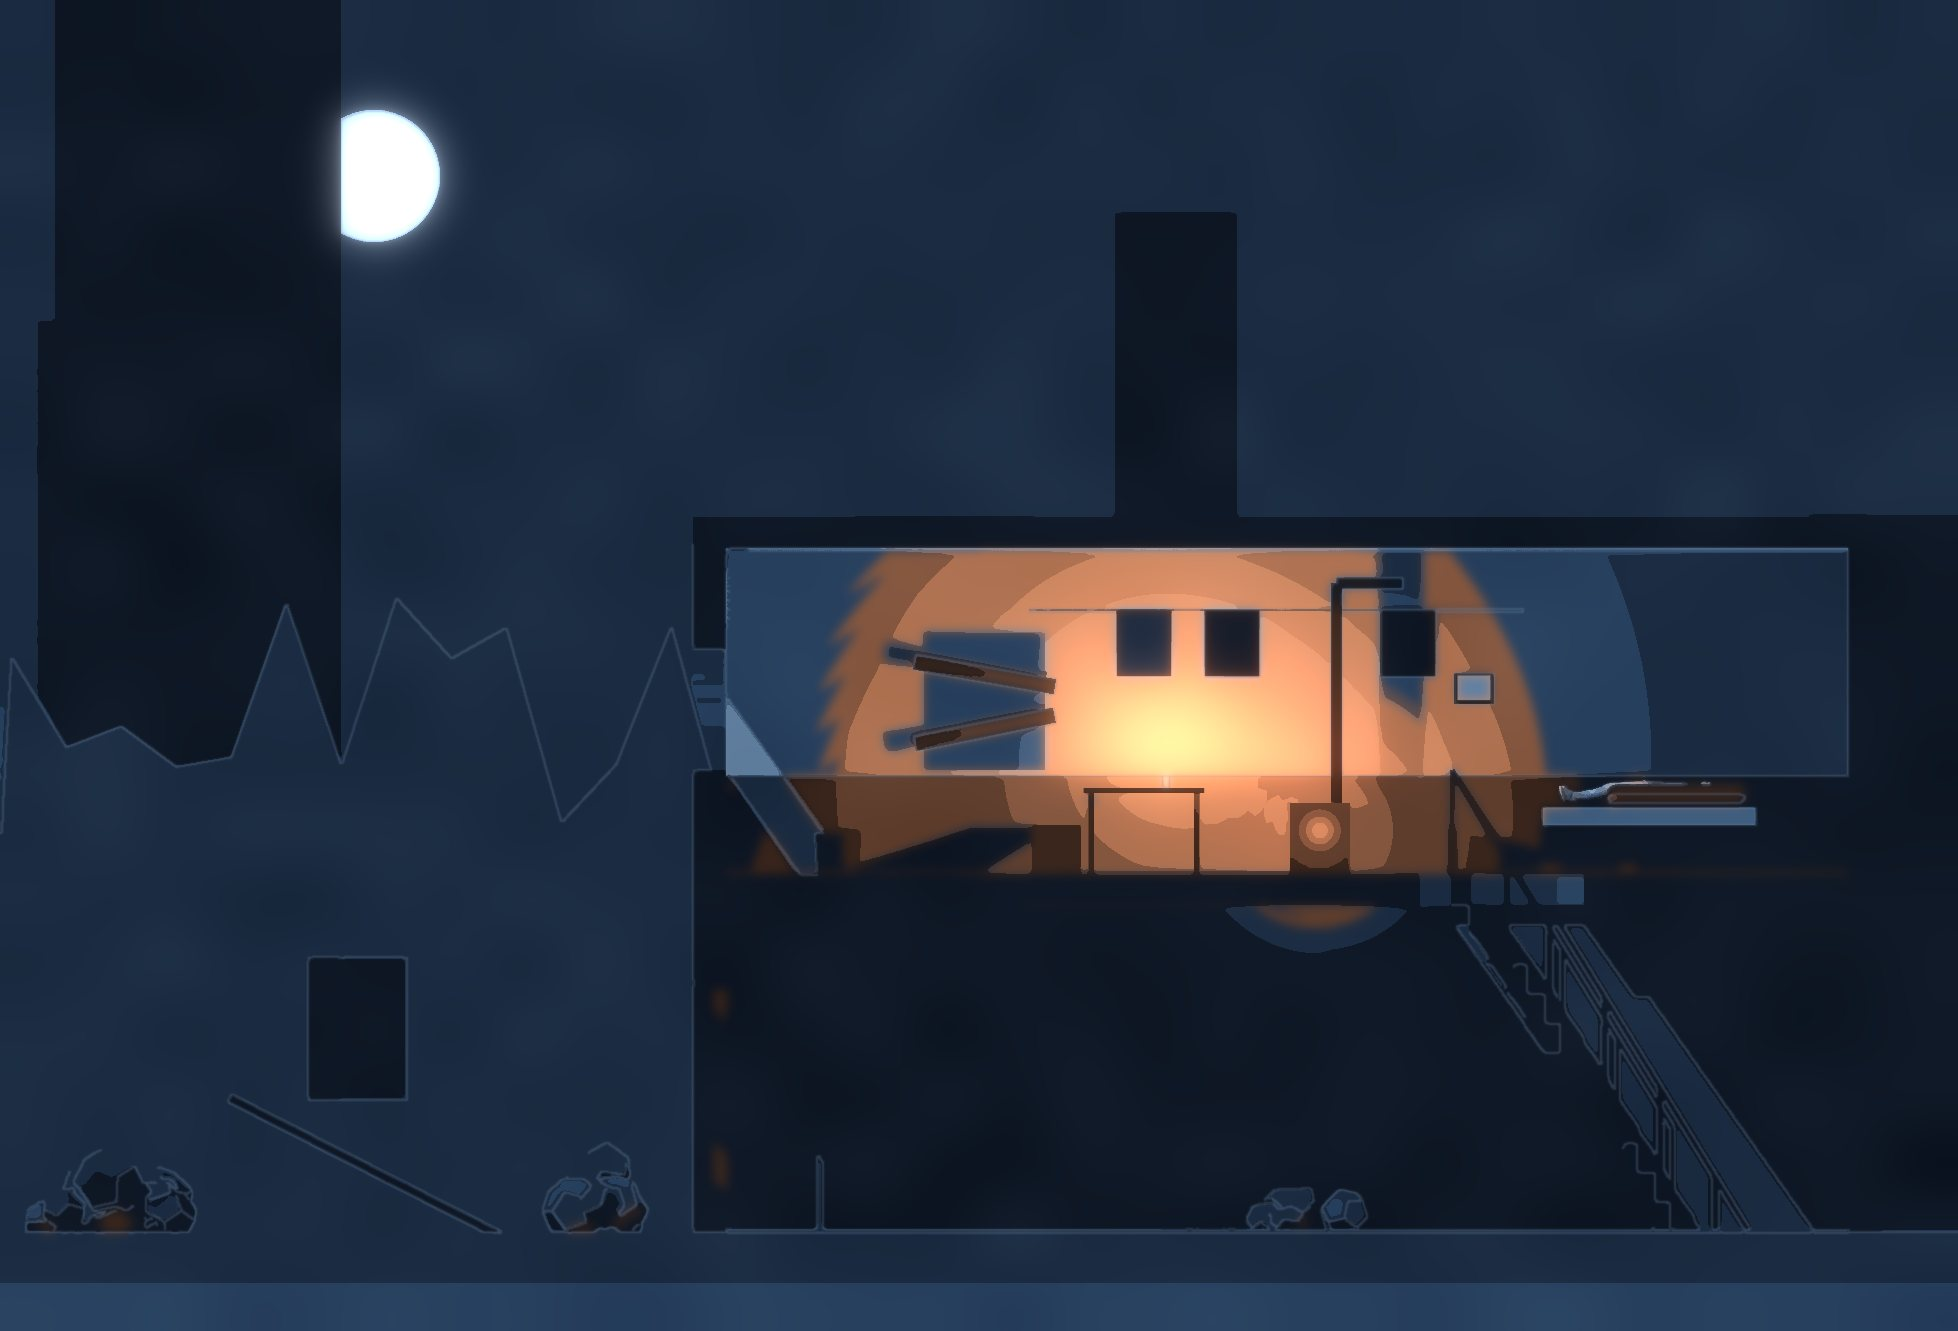
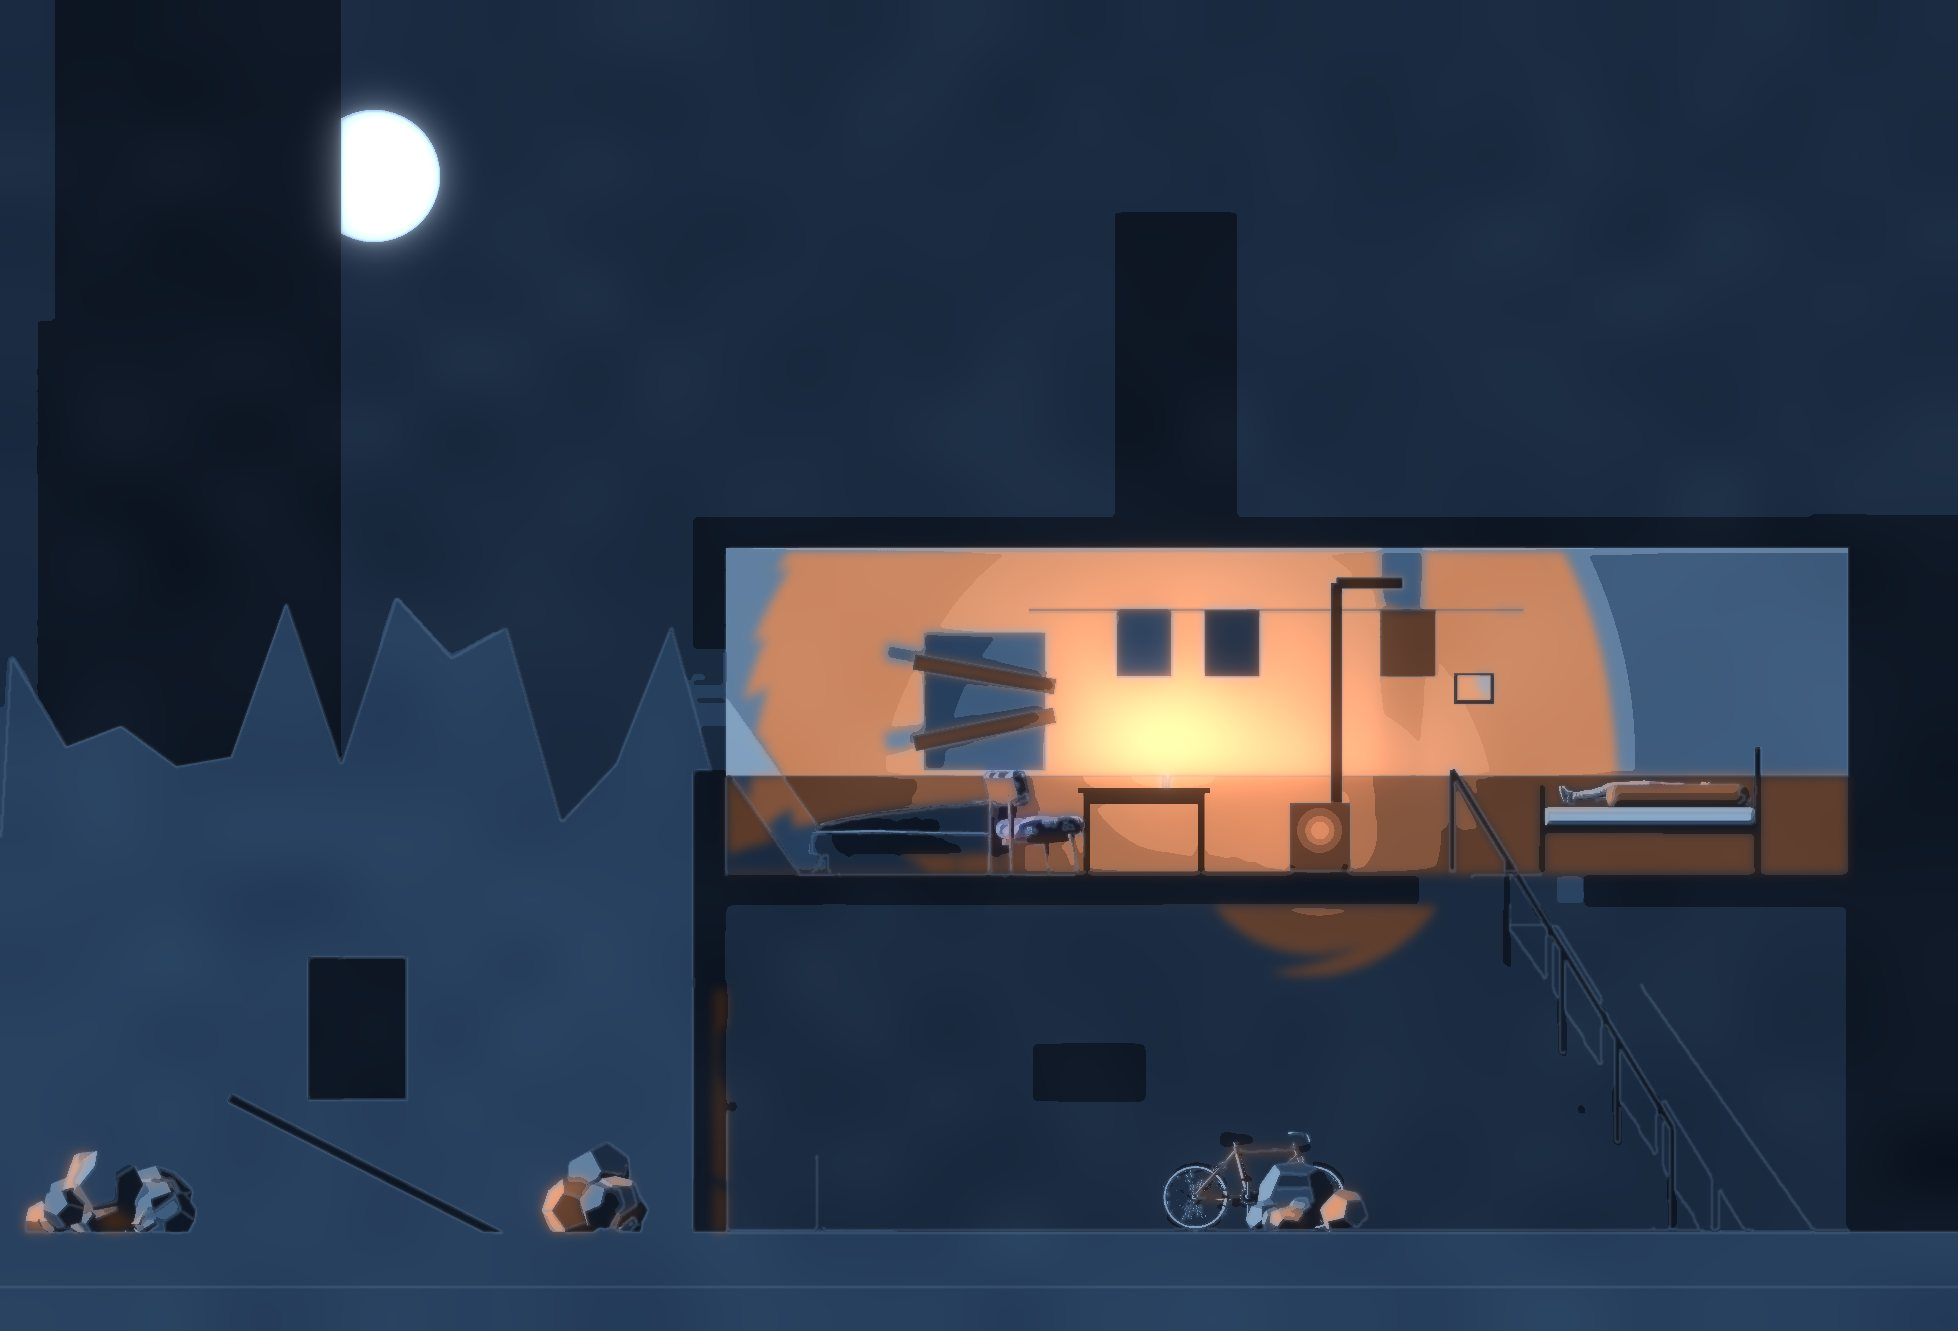
天亮之前：背景故事改成透視鏡頭的戰爭漫畫；場景換成真實的車、腳踏車、鐵床與建築細節；修正背包文字重疊、家裡改正常走路
Claude-Session: https://claude.ai/code/session_012Lv6gWQAPaAvqZzYnHc8ne

diff --git a/night/intro/index.html b/night/intro/index.html
@@ -12,7 +12,7 @@
   body { font-family: "Noto Sans TC", "PingFang TC", sans-serif; color: #0d0d0f; }
   #page { position: fixed; inset: 0; display: grid; place-items: center; background: #d9cdb2; background-image: radial-gradient(rgba(60,40,10,0.10) 1px, transparent 1.2px); background-size: 6px 6px; }
   #stage { position: relative; width: min(100vw, 56dvh); height: 100dvh; }
-  .panel { position: absolute; left: 4%; width: 92%; border: 5px solid #0d0d0f; box-shadow: 6px 6px 0 #0d0d0f; overflow: hidden; background: #0d0d0f; opacity: 0; transform: translateY(18px) rotate(var(--r, 0deg)); transition: opacity .5s, transform .5s; }
+  .panel { position: absolute; border: 5px solid #0d0d0f; box-shadow: 5px 6px 0 #0d0d0f; overflow: hidden; background: #0d0d0f; opacity: 0; outline: 3px solid #d9cdb2; transform: translateY(18px) rotate(var(--r, 0deg)); transition: opacity .5s, transform .5s; }
   .panel.on { opacity: 1; transform: translateY(0) rotate(var(--r, 0deg)); }
   .panel img { display: block; width: 100%; height: 100%; object-fit: cover; transform-origin: var(--ox, 50%) var(--oy, 50%); }
   .panel.on img { animation: kb var(--d, 12s) linear forwards; }
@@ -41,13 +41,13 @@
 /* 背景故事：一頁一頁的戰爭漫畫。每一頁有幾格畫面、旁白框依時間出現。全長約 105 秒。
    panels：[圖, 上緣%, 高度%, 傾斜, 放大的中心]；caps：[第幾秒出現, 文字, 位置（top%/left%）, 樣式] */
 const PAGES = [
-  { t: 13, panels: [['p1.jpg', 16, 52, -1, '50% 50%']], caps: [[0.6, '港灣市。戰爭的第二年。', 6, 4], [3.6, '敵軍包圍了整座城。', 62, 30, 'w'], [6.6, '所有對外的道路，都被封死。<br>沒有人進得來，也沒有人出得去。', 74, 6]] },
-  { t: 13, panels: [['p2.jpg', 12, 60, 1, '40% 80%']], caps: [[0.6, '先是停電。', 5, 4], [3.0, '然後，水龍頭再也流不出一滴水。', 64, 14, 'w'], [6.6, '糧食一天比一天少。<br>藥，早就沒有了。', 78, 6]] },
-  { t: 15, panels: [['p3.jpg', 10, 62, -1, '50% 5%']], sfx: [[4.4, '砰', 30, 54]], caps: [[0.6, '街口的高樓上，有狙擊手。', 4, 4], [5.4, '倒下的是提水的人、排隊領麵包的人。', 62, 10, 'w'], [9.6, '沒有人知道，扣扳機的是敵軍——<br>還是我們自己的人。', 76, 6, 'k']] },
-  { t: 16, panels: [['p4.jpg', 20, 34, 1, '70% 50%']], caps: [[0.6, '夜裡，有人挨家挨戶搜刮。', 8, 4], [4.2, '有的穿著敵軍的制服。<br>有的，穿著我軍的制服。', 57, 14, 'w'], [9.4, '仗打久了，<br>人有時候就不再是人。', 74, 8, 'k']] },
-  { t: 14, panels: [['p5.jpg', 14, 56, -1, '25% 85%']], caps: [[0.6, '被圍的第 22 天。', 5, 4], [3.0, '爸爸說，他去找點吃的，天亮前回來。', 62, 8, 'w'], [8.4, '他沒有回來。', 78, 40, 'k']] },
-  { t: 14, panels: [['p6.jpg', 16, 50, 1, '35% 70%']], caps: [[0.6, '媽媽等了五天。', 6, 4], [3.2, '第 27 天，她把門鎖好，也出門去找他。', 60, 8, 'w'], [8.4, '她也沒有回來。', 76, 36, 'k']] },
-  { t: 18, panels: [['p7.jpg', 18, 40, -1, '65% 60%']], caps: [[0.6, '今天是第 37 天。<br>媽媽離開後的第十天。', 5, 4], [5.0, '家裡只剩下你，和十歲的妹妹。', 62, 12, 'w'], [9.2, '昨晚，她開始發燒。', 73, 30], [13.0, '家裡沒有藥。<br>今晚，你得出門。', 84, 24, 'k']] },
+  { t: 14, panels: [['s1.jpg', 3, 9, 94, 50, -0.6, 0, '50% 30%'], ['p1.jpg', 50, 55, 46, 30, 2.5, 5.2, '50% 50%']], caps: [[0.8, '港灣市。戰爭的第二年。', 5, 5], [3.0, '敵軍的裝甲車堵住了每一條出城的路。', 50, 3, 'w'], [7.0, '整座城被圍死了。<br>沒有人進得來，<br>也沒有人出得去。', 64, 3], [10.5, '那是 37 天前的事。', 88, 30, 'k']] },
+  { t: 13, panels: [['s2.jpg', 3, 12, 94, 44, 0.6, 0, '70% 60%']], caps: [[0.8, '先是停電。', 7, 5], [3.0, '然後，水龍頭再也流不出一滴水。', 53, 8, 'w'], [6.2, '每天清晨，人們提著桶子，<br>排隊等那一口還能出水的井。', 64, 4], [9.8, '糧食一天比一天少。藥，早就沒有了。', 82, 8, 'k']] },
+  { t: 16, panels: [['s3.jpg', 3, 8, 60, 52, -0.8, 0, '40% 70%'], ['s4.jpg', 20, 56, 77, 30, 1, 6.0, '30% 60%']], sfx: [[5.6, '砰', 40, 62]], caps: [[0.8, '街口的<br>高樓上，<br>有狙擊手。', 12, 64], [3.2, '他挑的，<br>是提水的人。', 30, 64, 'w'], [8.6, '沒有人知道，扣扳機的是敵軍——', 87, 4, 'k'], [11.2, '還是我們自己的人。', 93, 44, 'k']] },
+  { t: 15, panels: [['s5.jpg', 4, 9, 92, 62, 0.5, 0, '35% 40%']], caps: [[0.8, '夜裡，有人挨家挨戶搜刮。', 5, 5], [4.0, '有的穿著敵軍的制服。<br>有的，穿著我軍的制服。', 62, 20, 'w'], [9.0, '仗打久了，<br>人有時候就不再是人。', 80, 8, 'k']] },
+  { t: 14, panels: [['s6.jpg', 8, 8, 84, 64, -0.6, 0, '55% 60%']], caps: [[0.8, '被圍的第 22 天。', 5, 5], [3.2, '「我去找點吃的。<br>天亮前回來。」', 30, 46, 'w'], [8.6, '爸爸沒有回來。', 78, 34, 'k']] },
+  { t: 14, panels: [['s7.jpg', 10, 9, 80, 60, 0.8, 0, '50% 35%']], caps: [[0.8, '媽媽等了五天。', 5, 5], [3.4, '「把門鎖好。<br>除了我，誰來都不要開。」', 58, 6, 'w'], [8.8, '第 27 天，她出門去找他。<br>她也沒有回來。', 80, 16, 'k']] },
+  { t: 18, panels: [['s8.jpg', 3, 12, 94, 36, -0.5, 0, '40% 55%'], ['s9.jpg', 30, 46, 56, 44, 1.2, 11.0, '50% 40%']], caps: [[0.8, '今天是第 37 天。<br>媽媽離開後的第十天。', 3, 3], [4.2, '家裡只剩下你，和十歲的妹妹。', 40, 20, 'w'], [7.6, '昨晚，她開始發燒。', 50, 3], [13.6, '家裡沒有藥。<br>今晚，你得出門。', 84, 3, 'k']] },
 ];
 const stage = document.getElementById('stage'), bar = document.getElementById('bar'), pg = document.getElementById('pg');
 const TOTAL = PAGES.reduce((a, p) => a + p.t, 0);
@@ -57,7 +57,7 @@ function wind() { try { AC = new (window.AudioContext || window.webkitAudioConte
 function later(s, f) { timers.push(setTimeout(f, s * 1000)); }
 function show(n, t0) {
   stage.innerHTML = ''; const P = PAGES[n]; pg.textContent = `${n + 1} / ${PAGES.length}`;
-  for (const [src, top, h, rot, org] of P.panels) { const d = document.createElement('div'); d.className = 'panel'; d.style.cssText = `top:${top}%;height:${h}%;--r:${rot * 0.6}deg;--d:${P.t + 1}s`; const [ox, oy] = org.split(' '); d.style.setProperty('--ox', ox); d.style.setProperty('--oy', oy); d.innerHTML = `<img src="${src}" alt="">`; stage.appendChild(d); requestAnimationFrame(() => requestAnimationFrame(() => d.classList.add('on'))); }
+  for (const [src, left, top, w, h, rot, delay, org] of P.panels) { const d = document.createElement('div'); d.className = 'panel'; d.style.cssText = `left:${left}%;top:${top}%;width:${w}%;height:${h}%;--r:${rot}deg;--d:${P.t + 1 - delay}s`; const [ox, oy] = org.split(' '); d.style.setProperty('--ox', ox); d.style.setProperty('--oy', oy); d.innerHTML = `<img src="${src}" alt="">`; stage.appendChild(d); later(delay + 0.05, () => d.classList.add('on')); }
   for (const [at, text, top, left, cls] of P.caps) { const c = document.createElement('div'); c.className = 'cap ' + (cls || ''); c.style.cssText = `top:${top}%;left:${left}%`; c.innerHTML = text; stage.appendChild(c); later(at, () => c.classList.add('on')); }
   for (const [at, text, top, left] of P.sfx || []) { const c = document.createElement('div'); c.className = 'sfx'; c.style.cssText = `top:${top}%;left:${left}%`; c.textContent = text; stage.appendChild(c); later(at, () => c.classList.add('on')); }
   later(P.t, () => (n + 1 < PAGES.length ? show(n + 1, t0 + P.t) : fin()));

diff --git a/night/engine.js b/night/engine.js
@@ -55,7 +55,7 @@ const ENG = (function () {
   const climbK = (p) => 1 - p.climb / CLIMB;
   function climbY(p) { const k = climbK(p); const t = k < 0.15 ? 0 : (k - 0.15) / 0.85; return lerp(p.climbFrom, p.climbTo, t) * HF; }
   const upZone = (s) => s.dir < 0 ? [s.x - 0.05, s.xb + 0.3] : [s.xb - 0.3, s.x + 0.05], downZone = (s) => s.dir < 0 ? [s.xt - 0.4, s.xt + 0.5] : [s.xt - 0.5, s.xt + 0.4];
-  function addLoot(it) { if (S.bag.length >= S.cap) { toast(`背包滿了（${S.cap} 格），${it}帶不走`); return false; } S.bag.push(it); return true; }
+  function addLoot(it) { if (S.bag.filter((x) => x !== '抗生素').length >= S.cap) { toast(`背包滿了（${S.cap} 格），${it}帶不走`); return false; } S.bag.push(it); return true; }
   function context() {
     const p = S.p; if (S.phase !== 'night' || p.climb > 0) return null;
     if (p.search) return { k: 'stop', t: '停手', s: '進度會留著' };
@@ -116,8 +116,8 @@ const ENG = (function () {
     const ln = A.lens && A.lens[i]; return ln ? [x + dir * (ln[0] * k - info.ox * L.u), base + info.foot * L.u - h + ln[1] * k] : null;
   }
   function player() { const p = S.p; let y = BASE(p.f), x = X(p.x), nm = 'p_idle', fr = 0;
-    if (p.climb > 0) { y = WY(climbY(p)); nm = climbK(p) < 0.15 ? 'p_walk' : 'p_climb'; fr = p.walk * 1.1; }
-    else if (p.anim) { nm = p.anim; fr = p.walk; } else if (p.hide || p.search) nm = 'p_crouch'; else if (Math.abs(p.vx) > 0.3) { nm = 'p_walk'; fr = p.walk * 1.1; }
+    if (p.climb > 0) { y = WY(climbY(p)); nm = climbK(p) < 0.15 ? (C.theme.walk || 'p_walk') : 'p_climb'; fr = p.walk * 1.1; }
+    else if (p.anim) { nm = p.anim; fr = p.walk; } else if (p.hide || p.search) nm = 'p_crouch'; else if (Math.abs(p.vx) > 0.3) { nm = C.theme.walk || 'p_walk'; fr = p.walk * 1.1; }
     if (C.theme.glow && !p.hide) { g.save(); g.shadowColor = C.theme.glow; g.shadowBlur = 7; }
     sprite(IMG.spr, C.spr, nm, fr, x, y, p.face, p.hide ? 0.55 : C.theme.pdark || 0, C.theme.ptint); if (C.theme.glow && !p.hide) g.restore(); }
 
@@ -156,7 +156,7 @@ const ENG = (function () {
     g.fillStyle = th.hudBg; g.fillRect(10, y, W - 20, 50); g.strokeStyle = th.ink; g.lineWidth = 3; g.strokeRect(10, y, W - 20, 50);
     g.fillStyle = th.ink; g.textAlign = 'left'; g.font = '900 20px ' + th.font; g.textBaseline = 'middle';
     const s = Math.ceil(S.dawn); g.fillText(S.phase === 'night' || S.phase === 'end' || S.phase === 'dlg' ? `天亮前 ${Math.floor(s / 60)}:${String(s % 60).padStart(2, '0')}` : C.dayLabel, 22, y + 25);
-    g.textAlign = 'right'; g.font = '900 17px ' + th.font; g.fillText(`${S.bag.length ? S.bag.join(' ') : '背包空的'}（${S.bag.length}/${S.cap}）`, W - 22, y + 25);
+    g.textAlign = 'right'; g.font = '900 17px ' + th.font; { const cnt = {}; for (const it of S.bag) cnt[it] = (cnt[it] || 0) + 1; const txt = Object.keys(cnt).map((k) => cnt[k] > 1 ? `${k}×${cnt[k]}` : k).join(' '); const used = S.bag.filter((x) => x !== '抗生素').length; let fs = 17; g.font = `900 ${fs}px ` + th.font; const full = `${txt || '背包空的'}（${used}/${S.cap}）`; while (fs > 11 && g.measureText(full).width > W - 190) { fs--; g.font = `900 ${fs}px ` + th.font; } g.fillText(full, W - 22, y + 25); }
     if (S.spot > 0.02) { g.fillStyle = '#b5402f'; g.fillRect(10, y + 50, (W - 20) * Math.min(1, S.spot), 8); g.font = '900 15px ' + th.font; g.textAlign = 'left'; g.fillStyle = th.warnInk || th.hudBg; g.fillText(C.spotText ? C.spotText(S.spotBy) : '快被發現了', 14, y + 74); }
     const p = S.p; if (p && p.search) { const k = p.search.t / p.search.need; const x0 = X(p.x) - 28, y0 = BASE(p.f) - L.fh * 0.86; g.fillStyle = th.hudBg; g.fillRect(x0, y0, 56, 10); g.fillStyle = th.ink; g.fillRect(x0, y0, 56 * k, 10); g.strokeStyle = th.ink; g.lineWidth = 2; g.strokeRect(x0, y0, 56, 10); }
     g.textBaseline = 'alphabetic';

diff --git a/night/3/index.html b/night/3/index.html
@@ -79,7 +79,7 @@ const CFG = {
   floors: { 0: [DOOR + 0.3, 14.0], 1: [DOOR + 0.35, 14.0] },
   stairs: [{ f: 0, x: 11.8, dir: -1, xb: 12.8, xt: 10.8 }],
   hides: [], hideBox: {}, boxes: [],
-  theme: { font: '"Noto Sans TC", sans-serif', ink: '#0d1219', hudBg: '#dfe4ea', mk: '#dfe4ea', bubble: '#eef1f4', bg0: '#0b1018', vignette: 0.4, glow: 'rgba(200,215,240,0.9)', glowA: 0.35, pdark: 0, fxFill: '#dfe4ea', fxStroke: '#0d1219', warnInk: '#dfe4ea' },
+  theme: { walk: 'p_climb', font: '"Noto Sans TC", sans-serif', ink: '#0d1219', hudBg: '#dfe4ea', mk: '#dfe4ea', bubble: '#eef1f4', bg0: '#0b1018', vignette: 0.4, glow: 'rgba(200,215,240,0.9)', glowA: 0.35, pdark: 0, fxFill: '#dfe4ea', fxStroke: '#0d1219', warnInk: '#dfe4ea' },
   spotText: () => '你暴露在瞄準鏡裡',
   hooks: {},
 };

diff --git a/night/index.html b/night/index.html
@@ -125,7 +125,7 @@ const BOXES = [
   { f: 3, x: 3.0, n: '書櫃', loot: ['木柴'], k: 'books' },
   { f: 3, x: 6.5, n: '桌上的藥盒', loot: ['藥'], couple: true, k: 'table' },
   { f: 4, x: 4.5, n: '冰箱', loot: ['罐頭', '罐頭'], k: 'fridge' },
-  { f: 4, x: 7.6, n: '床底', loot: ['繃帶'], k: 'bed' },
+  { f: 4, x: 7.9, n: '床底', loot: ['繃帶'], k: 'bed' },
 ];
 const ROOM_WALLS = [ // 房間隔間（裝飾用，不擋路）
   { f: 0, x: 2.6 }, { f: 0, x: 7.4 }, { f: 1, x: 4.8 }, { f: 2, x: 4.0 }, { f: 3, x: 4.6 }, { f: 4, x: 5.5 },
